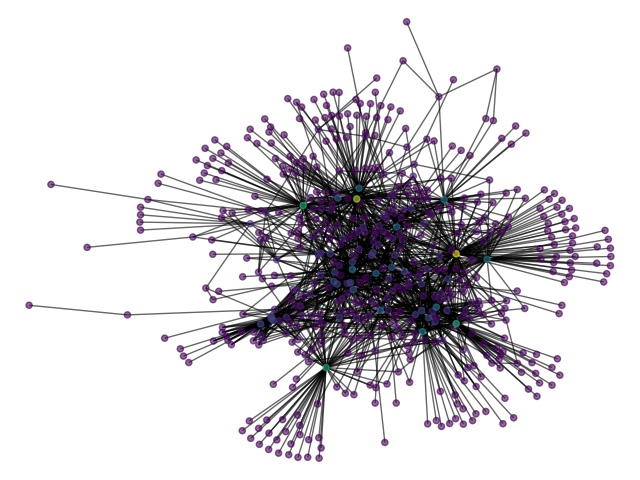
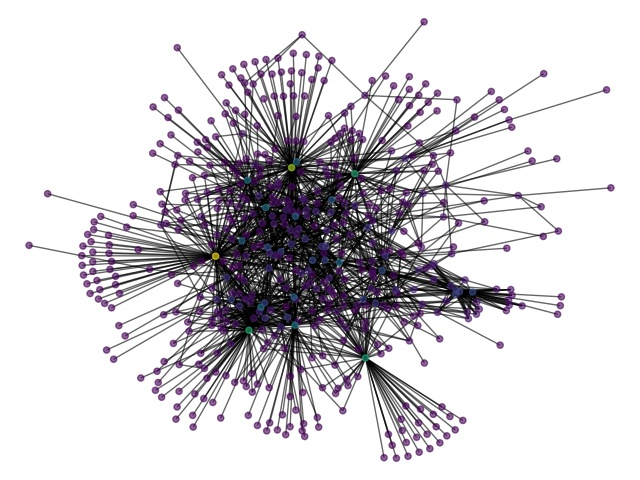
update

diff --git a/peptide_networks/peptide_graphs/PeptideNetwork.py b/peptide_networks/peptide_graphs/PeptideNetwork.py
@@ -8,8 +8,7 @@ import re
 
 
 class PeptideNetwork():
-    edge_list = pd.DataFrame()
-    
+       
     def __init__(self,edge_list):
         """
         Creates network from given edge list
@@ -19,25 +18,40 @@ class PeptideNetwork():
         """
         self.edge_list = edge_list
         self.edge_list['weight'] = 1/(1+edge_list['distance'])
+        
+    def create_network(self):
+        """ Create network using the given edge list. 
+        Source = 'from'
+        Target = 'to'
+        Edge attribute = 'weight'
+        """
         self.G = nx.from_pandas_edgelist(
-            edge_list,
+            self.edge_list,
             source='from',
             target='to',
             edge_attr="weight")
-        
-        
+                
     def get_communitiess(self):
+        """ Returns a communities object using the Girvan-Newman method.
+        """
         return community.girvan_newman(self.G)
     
     def subset_edge_list_with_threshold(self,threshold):
+        """ 
+        Subsets the edge list based on distance threshold
+        """
         subset_edge_list = self.edge_list[ (self.edge_list['distance'] <= threshold)]
         self.edge_list = subset_edge_list
     
     def subset_edge_list_with_protein(self, proteins):
+        """
+        Subsets the edge list based on wanted proteins
+        """
         subset_edge_list = self.edge_list[self.edge_list['accession'].isin(proteins)]
         self.edge_list = subset_edge_list
         
-    def print_edge_histogram(self,save_path):
+    def print_distance_histogram(self,save_path):
+        """ Saves a distance histogram to the given save path """
         x = self.edge_list['distance']
         plt.hist(x, density=True, bins=100)
         plt.title(f'Distance histogram {save_path}')
@@ -46,16 +60,17 @@ class PeptideNetwork():
         
         
     def plot_network(self, save_path):
-        """ want to create color mapper based on accession value"""
+        """ Plots the network """
         pos = nx.spring_layout(self.G, weight="weight")
-        degree_centrality = nx.degree_centrality(G)
+        degree_centrality = nx.degree_centrality(self.G)
         degree_centrality_color = np.fromiter(degree_centrality.values(), float)
         nx.draw(self.G, pos=pos, node_size=20, with_labels=False, width=1, alpha=0.6, node_color=degree_centrality_color)
-        plt.title(f'Network {save_path}')
+        plt.title(f'Network')
         plt.savefig(f'{save_path}')
          
     def degree_analysis(self, save_path):
-        degree_sequence = sorted([d for n, d in G.degree()], reverse=True)
+        """ Saves simple degree analysis to the given save path """
+        degree_sequence = sorted([d for n, d in self.G.degree()], reverse=True)
         fig, ax= plt.subplots(2,1, figsize=(8, 8))
         ax[0].plot(degree_sequence, "b-", marker="o")
         ax[0].set_title("Degree Rank Plot")
@@ -67,25 +82,21 @@ class PeptideNetwork():
         ax[1].set_ylabel("# of Nodes")
         fig.tight_layout()
         save_path = save_path.split('/')[-2] + '_' + re.sub('\D', '', save_path)
-        plt.savefig(f'findings/peptide_graphs/degree_{save_path}.jpg')
+        plt.savefig(f'{save_path}')
 
-        
+# ------------------------------------------------------------------------------ #
 
-
-
-
-
-    
-    
 
 def main(args):
     filepath = args.filepath
     edge_list = pd.read_csv(filepath)
     proteins = ['HBB_HUMAN', 'FIBA_HUMAN']
     threshold = 6
-    
     G = PeptideNetwork(edge_list)
     G.subset_edge_list_with_protein(proteins)
+    G.subset_edge_list_with_threshold(threshold)
+    G.create_network()
+    G.plot_network('findings/peptide_graphs/network_blosum_34.jpg')
     
 
 if __name__ == "__main__":
